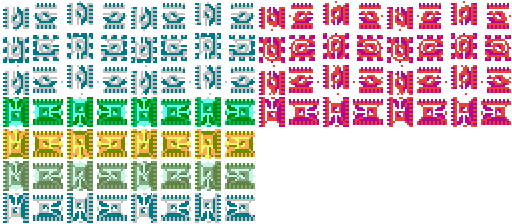
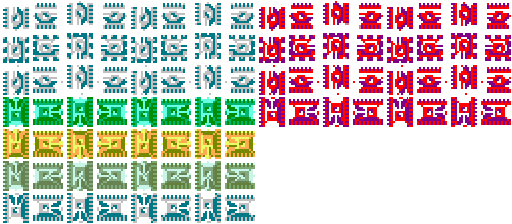
corrected enemy sprites and red tank animations

Changed region(s): [[0.5, 0.0, 1.0, 0.5625], [0.375, 0.875, 0.4375, 1.0], [0.125, 0.875, 0.1875, 0.9688]]

diff --git a/tanque/app.js b/tanque/app.js
@@ -177,10 +177,10 @@ function sketchProc(processing) {
                         enemySpriteSheet.setRectSprites( [0,i-1,8,1], 32,32, ["enemy"+i+"Up1", "enemy"+i+"Right1","enemy"+i+"Down1","enemy"+i+"Left1", "enemy"+i+"Up2", "enemy"+i+"Right2","enemy"+i+"Down2","enemy"+i+"Left2"]);
                         if (i<5) {
                             enemySpriteSheet.setRectSprites( [8,i-1,8,1], 32,32, ["specialenemy"+i+"Up1", "specialenemy"+i+"Right1","specialenemy"+i+"Down1","specialenemy"+i+"Left1", "specialenemy"+i+"Up2", "specialenemy"+i+"Right2","specialenemy"+i+"Down2","specialenemy"+i+"Left2"]);
-                            enemySpriteSheet.setAnimation(["enemy"+i+"Up1"    ,"specialenemy"+i+"Up1"   , "enemy"+i+"Up2"    , "specialenemy"+i+"Up2"   ], "specialenemy"+i+"Up"    ,10);
-                            enemySpriteSheet.setAnimation(["enemy"+i+"Right1" ,"specialenemy"+i+"Right1", "enemy"+i+"Right2" , "specialenemy"+i+"Right2"], "specialenemy"+i+"Right" ,10);
-                            enemySpriteSheet.setAnimation(["enemy"+i+"Down1"  ,"specialenemy"+i+"Down1" , "enemy"+i+"Down2"  , "specialenemy"+i+"Down2" ], "specialenemy"+i+"Down"  ,10); 
-                            enemySpriteSheet.setAnimation(["enemy"+i+"Left1"  ,"specialenemy"+i+"Left1" , "enemy"+i+"Left2"  , "specialenemy"+i+"Left2" ], "specialenemy"+i+"Left"  ,10); 
+                            enemySpriteSheet.setAnimation(["enemy"+i+"Up1"    ,"specialenemy"+i+"Up2"   , "enemy"+i+"Up1"    , "specialenemy"+i+"Up2"   ], "specialenemy"+i+"Up"    ,10);
+                            enemySpriteSheet.setAnimation(["enemy"+i+"Right1" ,"specialenemy"+i+"Right2", "enemy"+i+"Right1" , "specialenemy"+i+"Right2"], "specialenemy"+i+"Right" ,10);
+                            enemySpriteSheet.setAnimation(["enemy"+i+"Down1"  ,"specialenemy"+i+"Down2" , "enemy"+i+"Down1"  , "specialenemy"+i+"Down2" ], "specialenemy"+i+"Down"  ,10); 
+                            enemySpriteSheet.setAnimation(["enemy"+i+"Left1"  ,"specialenemy"+i+"Left2" , "enemy"+i+"Left1"  , "specialenemy"+i+"Left2" ], "specialenemy"+i+"Left"  ,10); 
                         }
 
                         enemySpriteSheet.setAnimation(["enemy"+i+"Up1"    ,"enemy"+i+"Up2"   ] ,"enemy"+i+"Up"    ,15);
@@ -258,11 +258,13 @@ function sketchProc(processing) {
                 //IA MTO BOA:
                 if (random(25) < 1){
                     IA.value.x = Math.floor(random(3)) -1;
-                } else if (random(20) < 1){
+                } 
+                if (random(20) < 1){
                     IA.value.y = Math.floor(random(3)) -1;
-                } if (random(20) < 1){
+                } 
+                if (random(20) < 1){
                     IA.value.y = Math.floor(random(3)) -1;
-                }
+                }                
                 IA.value.fire = (Math.floor(random(3)) == 0);
             }
             
